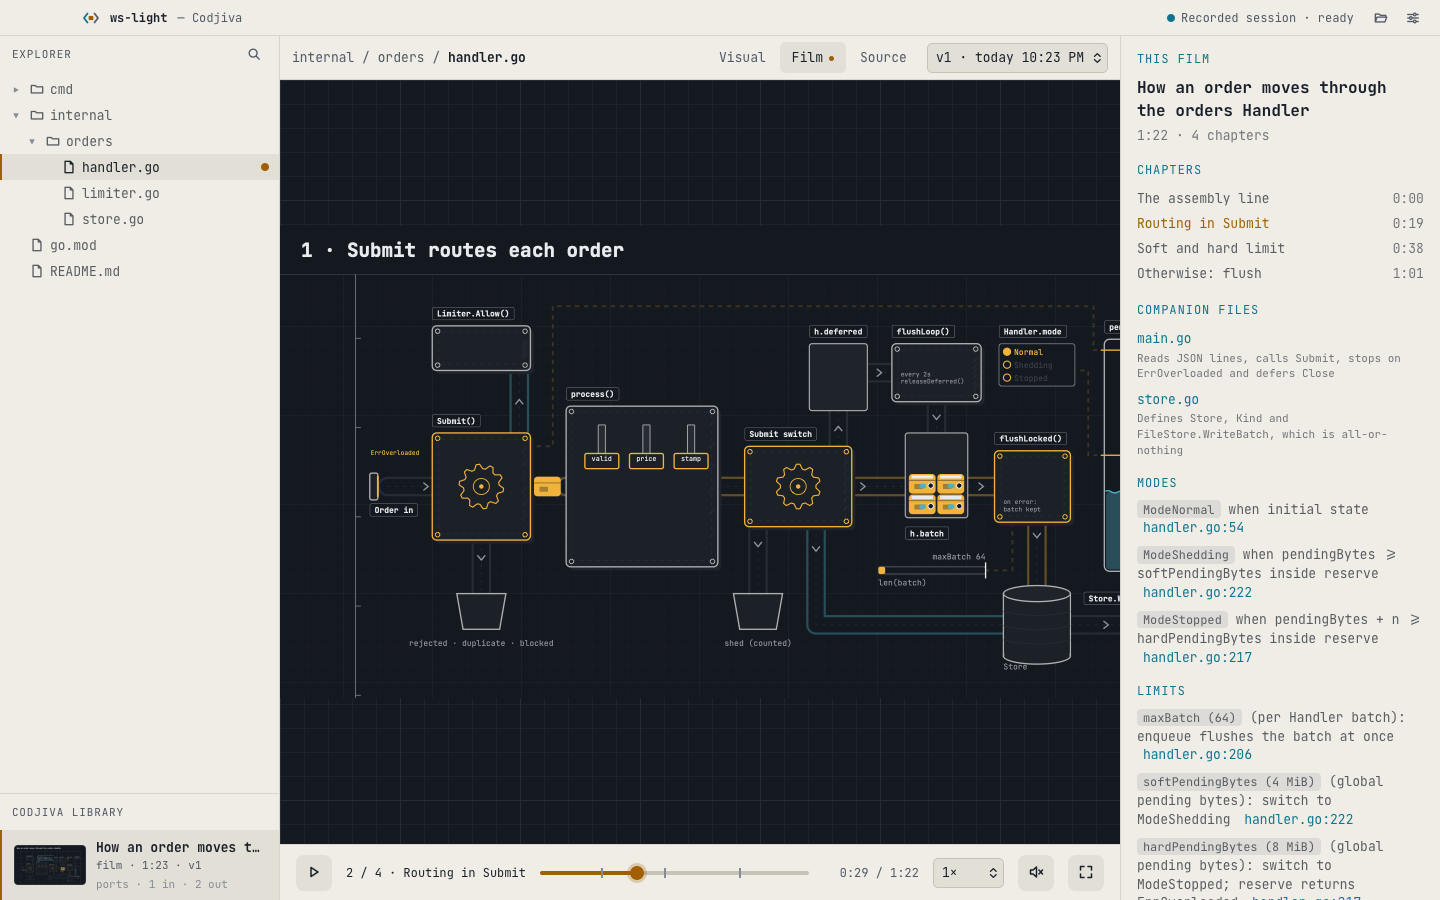
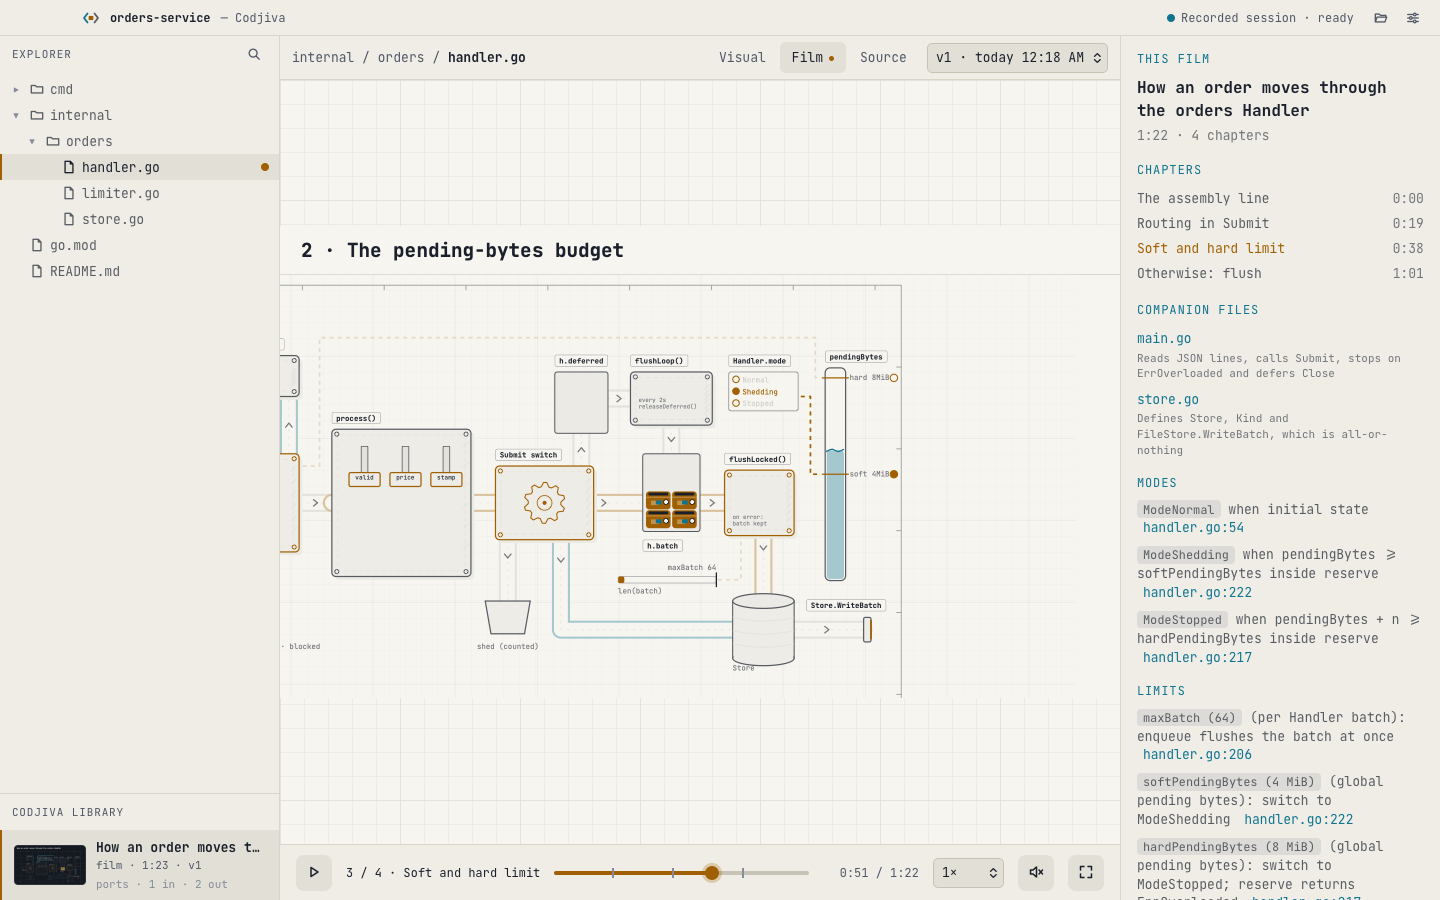
Films and visuals follow the light theme; real-app screenshots on the landing page
- tokens.css holds a light palette next to the dark one. An artifact page
  uses it when its root element has data-theme="light", which the app asks
  for with a theme message and a standalone page with ?theme=light.
- ArtifactFrame asks each page for the app's theme and reads back the
  palette in use. A page built by an older runtime stays dark, and the
  canvas behind it is kept dark for it.
- The runtime is version 1.1.0.
- The landing page's live example is drawn in the page's theme, and its
  app screenshots come from the desktop app on the Go orders example.

Claude-Session: https://claude.ai/code/session_01WEnf77nagKX1Jfs7v5qyJ3

diff --git a/runtime/src/90-player.js b/runtime/src/90-player.js
@@ -8,6 +8,10 @@
 //
 // With `?poster=1` as well, a film draws the single frame named by its `thumbT` and does not
 // play. The app uses that for the small pictures in its library.
+//
+// An artifact is drawn in the dark palette unless it is told to use the light one. It is told
+// by `?theme=light` in the URL, or by a `theme` message from the app. The page reports the
+// palette in use in its `ready` message and after every `theme` message.
 
 const ICONS = {
   play: '<svg class="i-play" viewBox="0 0 24 24"><path d="M7 4.5v15l13-7.5z"/></svg>',
@@ -30,7 +34,7 @@ const formatTime = (x) => {
   return Math.floor(s / 60) + ':' + String(Math.floor(s % 60)).padStart(2, '0');
 };
 
-CJ.version = '1.0.0';
+CJ.version = '1.1.0';
 
 CJ.boot = async (data) => {
   const params = new URLSearchParams(window.location.search);
@@ -46,6 +50,14 @@ CJ.boot = async (data) => {
   const controls = $('controls');
   const markEmbedded = () => { document.documentElement.classList.add('embed'); document.body.classList.add('embed'); };
   if (embedded) markEmbedded();
+  // The style sheet holds both palettes. The attribute data-theme="light" on the root element
+  // selects the light one, and without the attribute the dark one applies.
+  const setTheme = (mode) => {
+    if (mode === 'light') document.documentElement.dataset.theme = 'light';
+    else delete document.documentElement.dataset.theme;
+  };
+  const theme = () => (document.documentElement.dataset.theme === 'light' ? 'light' : 'dark');
+  setTheme(params.get('theme'));
 
   // Messages go to the page that embeds this artifact. A standalone artifact has no such page.
   const host = window.parent !== window ? window.parent : null;
@@ -184,6 +196,7 @@ CJ.boot = async (data) => {
       if (ev.source !== host || !ev.data || !ev.data.cj) return;
       const msg = ev.data;
       if (msg.cj === 'hello') { embedded = true; markEmbedded(); fit(); sendReady(); }
+      else if (msg.cj === 'theme') { setTheme(msg.mode); post({ cj: 'theme', mode: theme() }); }
       else if (msg.cj === 'legend') visual.setLegend(msg.on);
       else if (msg.cj === 'layers') visual.setLayers(msg.on || {});
       else if (msg.cj === 'fit') visual.fit();
@@ -193,7 +206,7 @@ CJ.boot = async (data) => {
       else if (msg.cj === 'selftest') Promise.resolve(runSelfTest(msg.opts)).then((report) => post({ cj: 'selftest', report }));
     });
     pickContext = () => ({ prefix: 'v' });
-    const sendReady = () => post({ cj: 'ready', kind: 'visual', title: data.visual.title, layers: visual.layers(), nodes: (data.visual.nodes || []).map((n) => n.id), legend: visual.hasLegend, runtime: CJ.version });
+    const sendReady = () => post({ cj: 'ready', kind: 'visual', title: data.visual.title, layers: visual.layers(), nodes: (data.visual.nodes || []).map((n) => n.id), legend: visual.hasLegend, runtime: CJ.version, theme: theme() });
     fit();
     window.__cj = { kind: 'visual', visual, selfTest: runSelfTest, registry };
     document.body.classList.add('ready');
@@ -358,12 +371,13 @@ CJ.boot = async (data) => {
     const local = Math.min(scene.duration, Math.max(0, t - scene.start));
     return { prefix: scene.meta.id, scene: scene.meta.id, t: Math.round(t * 100) / 100, sceneT: Math.round(scene.warp.tau(local) * 100) / 100 };
   };
-  const sendReady = () => post({ cj: 'ready', kind: 'film', title: data.film.title, duration: total, chapters: film.chapters(), runtime: CJ.version });
+  const sendReady = () => post({ cj: 'ready', kind: 'film', title: data.film.title, duration: total, chapters: film.chapters(), runtime: CJ.version, theme: theme() });
 
   window.addEventListener('message', (ev) => {
     if (ev.source !== host || !ev.data || !ev.data.cj) return;
     const msg = ev.data;
     if (msg.cj === 'hello') { embedded = true; markEmbedded(); fit(); sendReady(); sendTime(true); }
+    else if (msg.cj === 'theme') { setTheme(msg.mode); post({ cj: 'theme', mode: theme() }); }
     else if (msg.cj === 'play') play();
     else if (msg.cj === 'pause') pause();
     else if (msg.cj === 'seek') seek(Number(msg.t) || 0);

diff --git a/ui/src/styles/theme.css b/ui/src/styles/theme.css
@@ -1,46 +1,25 @@
 /**
- * The light theme of the app's own window, and the rule that keeps pictures and films dark.
+ * How the app's window uses the two palettes of tokens.css.
  *
- * tokens.css defines the dark palette, which is the default. The root element has the attribute
- * data-theme="light" or data-theme="dark"; lib/theme.ts sets it from the `theme` setting.
+ * tokens.css defines the dark palette, which is the default, and the light palette. The root
+ * element has the attribute data-theme="light" or data-theme="dark"; lib/theme.ts sets it from
+ * the `theme` setting.
  */
 :root { color-scheme:dark }
 
-/* Light theme: drafting paper with dark ink. Amber and cyan are darker than in the dark theme
-   so that text in those colours stays readable on a light background. Only the base colours
-   and the shell neutrals are set here; tokens.css derives every other tone from them. */
-:root[data-theme="light"] {
-  color-scheme:light;
-  --ground:#F7F5EF;
-  --main:#A05F00;
-  --second:#1A202B;
-  --accent:#0E7490;
-
-  --shell-window:#E3E0D8;
-  --shell-bar:#EFEDE6;
-  --shell-button:#E2DFD6;
-  --shell-hover:#D6D2C8;
-  --shell-border:#C6C2B6;
-  --shell-border-soft:#D8D5CB;
-  --shell-tick:#868C97;
-  --shell-text-2:#505866;
-}
-/* The page of a picture or a film declares no colour scheme, which browsers treat as light.
-   A frame whose own scheme differs from its page's scheme is given an opaque white background
-   by the browser. Declaring every frame light keeps the two equal, so the frame stays
-   transparent and the dark canvas behind it shows through. */
-iframe { color-scheme:light }
-
+/* The light palette itself is in tokens.css, next to the dark one. These rules soften what is
+   drawn over the window in the light theme. */
 :root[data-theme="light"] .scrim { background:rgba(26,32,43,.35) }
 :root[data-theme="light"] .dialog { box-shadow:0 20px 60px rgba(26,32,43,.25) }
 :root[data-theme="light"] .toast { box-shadow:0 12px 30px rgba(26,32,43,.2) }
 
-/* A picture or a film is drawn in the dark palette on a transparent page, so whatever is behind
-   its frame must be dark in both themes. These are the three places that hold such a frame:
-   the canvas while it shows an artifact, the thumbnails in the library, and the hidden frame
-   that checks new artifacts. Inside them the dark palette of tokens.css is declared again,
-   together with the derived tones, because a derived tone is computed where it is declared. */
-:root[data-theme="light"] :is(.canvas:has(iframe), .thumb, .validator) {
+/* A picture or a film is transparent around its drawing, so whatever is behind its frame has
+   to be in the same palette as the drawing. A frame whose page is drawn in the dark palette
+   has the class `dark-stage` (see ArtifactFrame.svelte). The thumbnails in the library and the
+   hidden frame that checks new artifacts are always drawn dark. Inside these three places the
+   dark palette of tokens.css is declared again, together with the derived tones, because a
+   derived tone is computed where it is declared. */
+:root[data-theme="light"] :is(.canvas:has(iframe.dark-stage), .thumb, .validator) {
   color-scheme:dark;
   color:var(--second);
   --ground:#14181F;
@@ -56,6 +35,7 @@ iframe { color-scheme:light }
   --amberdim:color-mix(in srgb, var(--main) 35%, var(--ground));
   --cyandim:color-mix(in srgb, var(--accent) 35%, var(--ground));
   --chip:color-mix(in srgb, var(--second) 12%, var(--ground));
+  --drop:rgba(0,0,0,.45);
   --shell-window:#0c0e12;
   --shell-bar:#101318;
   --shell-button:#1b2029;

diff --git a/ui/src/components/ArtifactFrame.svelte b/ui/src/components/ArtifactFrame.svelte
@@ -1,26 +1,65 @@
 <script lang="ts">
+  import { app } from '$lib/state/app.svelte';
+
   // The sandboxed frame every visual and film is shown in.
   //
   // The frame may run scripts and nothing else: it has its own isolated origin, so the page
   // inside cannot reach this app or anything the app can reach. The two sides talk only through
   // window messages, each an object with a `cj` field that names the message.
-  let { src, title, onmessage }: { src: string; title: string; onmessage: (message: any) => void } = $props();
+  //
+  // Theme. The page inside is transparent around its drawing, so what is behind this frame
+  // shows through. The frame asks the page to draw in the app's theme, `app.theme`, when the
+  // page loads and again whenever the theme changes. The page answers with the palette it uses.
+  //   - A page built by this version of the app answers `light` or `dark` as asked.
+  //   - A page built before the light palette existed does not know the request and stays dark.
+  // While the page is dark, the frame has the class `dark-stage`. styles/theme.css uses that
+  // class to keep the area behind the frame dark when the rest of the window is light.
+  //
+  // With `followTheme` set to false the page is never asked, and it stays dark.
+  let { src, title, onmessage, followTheme = true }: { src: string; title: string; onmessage: (message: any) => void; followTheme?: boolean } = $props();
 
   let frame: HTMLIFrameElement | undefined = $state();
+  // The palette the page said it uses. It is null until the page has answered.
+  let stageTheme = $state<'light' | 'dark' | null>(null);
 
   export function send(message: Record<string, unknown>) {
     frame?.contentWindow?.postMessage(message, '*');
   }
 
+  // The theme request is sent before `hello`, so the page's `ready` answer to `hello` already
+  // names the palette asked for.
+  function onload() {
+    if (followTheme) send({ cj: 'theme', mode: app.theme });
+    send({ cj: 'hello' });
+  }
+
+  // A different page has not answered yet.
+  $effect(() => {
+    void src;
+    stageTheme = null;
+  });
+
+  // Passes a change of the app's theme on to the page that is already loaded.
+  $effect(() => {
+    const mode = app.theme;
+    if (followTheme) send({ cj: 'theme', mode });
+  });
+
   $effect(() => {
     const handler = (event: MessageEvent) => {
       // Only messages from this frame's own page are accepted.
       if (!frame || event.source !== frame.contentWindow) return;
-      if (event.data && typeof event.data === 'object' && typeof event.data.cj === 'string') onmessage(event.data);
+      const message = event.data;
+      if (!message || typeof message !== 'object' || typeof message.cj !== 'string') return;
+      // `ready` carries the palette in `theme`, and the answer to a theme request carries it in
+      // `mode`. A page that names no palette is an older page, which is always dark.
+      if (message.cj === 'ready') stageTheme = message.theme === 'light' ? 'light' : 'dark';
+      else if (message.cj === 'theme') stageTheme = message.mode === 'light' ? 'light' : 'dark';
+      onmessage(message);
     };
     window.addEventListener('message', handler);
     return () => window.removeEventListener('message', handler);
   });
 </script>
 
-<iframe bind:this={frame} {src} {title} sandbox="allow-scripts" onload={() => send({ cj: 'hello' })}></iframe>
+<iframe bind:this={frame} {src} {title} class:dark-stage={stageTheme === 'dark'} sandbox="allow-scripts" {onload}></iframe>

diff --git a/runtime/css/runtime.css b/runtime/css/runtime.css
@@ -78,10 +78,10 @@ html.embed, html.embed body, html.embed #app { background:transparent }
 /* ---------- bubbles (the runtime sets opacity and the clamping transform) ---------- */
 .bub { position:absolute; width:max-content; max-width:420px; padding:12px 16px; font-size:20px; line-height:1.4;
   color:var(--second); background:var(--ground); border:2px solid var(--accent); border-radius:var(--radius-l);
-  box-shadow:0 0 0 7px color-mix(in srgb, var(--accent) 22%, transparent), 0 12px 30px rgba(0,0,0,.45);
+  box-shadow:0 0 0 7px color-mix(in srgb, var(--accent) 22%, transparent), 0 12px 30px var(--drop);
   opacity:0; white-space:normal }
 .bub .k { display:block; font-size:18px; letter-spacing:.06em; color:var(--accent); margin-bottom:6px }
-.bub.alarm { border-color:var(--main); box-shadow:0 0 0 7px color-mix(in srgb, var(--main) 26%, transparent), 0 12px 30px rgba(0,0,0,.45) }
+.bub.alarm { border-color:var(--main); box-shadow:0 0 0 7px color-mix(in srgb, var(--main) 26%, transparent), 0 12px 30px var(--drop) }
 .bub.alarm .k { color:var(--main) }
 .bub::after { content:''; position:absolute; width:18px; height:18px; background:var(--ground); border:2px solid var(--accent); transform:rotate(45deg) }
 .bub.alarm::after { border-color:var(--main) }
@@ -111,7 +111,7 @@ html.embed, html.embed body, html.embed #app { background:transparent }
 .cj-marker.open { box-shadow:0 0 0 5px color-mix(in srgb, var(--second) 45%, transparent) }
 .cj-layer-off { display:none !important }
 .cj-tip { position:absolute; max-width:440px; padding:8px 12px; font-size:16px; line-height:1.35; color:var(--ink); background:var(--ground);
-  border:1.5px solid var(--line); border-radius:var(--radius-m); box-shadow:0 12px 30px rgba(0,0,0,.45); opacity:0; pointer-events:none }
+  border:1.5px solid var(--line); border-radius:var(--radius-m); box-shadow:0 12px 30px var(--drop); opacity:0; pointer-events:none }
 .cj-tip b { display:block; color:var(--second) }
 
 /* Point-at mode: the app has asked the user to click the element their feedback is about. */

diff --git a/landing/app.js b/landing/app.js
@@ -17,6 +17,7 @@
 			var light = root.getAttribute('data-mode') !== 'light';
 			if (light) root.setAttribute('data-mode', 'light'); else root.removeAttribute('data-mode');
 			try { localStorage.setItem('codjiva-mode', light ? 'light' : 'dark'); } catch (e) {}
+			showDemo();
 		});
 	}
 
@@ -31,17 +32,28 @@
 	var frame = one('#demo-frame');
 	var note = one('#demo-note');
 	var keys = one('#demo-keys');
+	// The example on show. It starts as the film, which the page's own markup already loads.
+	var shown = 'film';
+	// Loads the example on show into the frame, in the page's theme. An example page is drawn in
+	// its light palette when its address ends in `?theme=light`. The frame is left alone when it
+	// already shows that address, so a film that is playing is not started again for nothing.
+	function showDemo() {
+		var demo = DEMOS[shown];
+		if (!demo || !frame) return;
+		var address = demo.src + (root.getAttribute('data-mode') === 'light' ? '?theme=light' : '');
+		if (frame.getAttribute('src') !== address) frame.setAttribute('src', address);
+		frame.title = demo.title;
+		if (note) note.textContent = demo.note;
+		if (keys) keys.hidden = !demo.keys;
+	}
 	all('.tab[data-demo]').forEach(function (tab) {
 		tab.addEventListener('click', function () {
-			var demo = DEMOS[tab.getAttribute('data-demo')];
-			if (!demo || !frame) return;
+			shown = tab.getAttribute('data-demo');
 			all('.tab[data-demo]').forEach(function (other) { other.setAttribute('aria-selected', other === tab ? 'true' : 'false'); });
-			frame.src = demo.src;
-			frame.title = demo.title;
-			if (note) note.textContent = demo.note;
-			if (keys) keys.hidden = !demo.keys;
+			showDemo();
 		});
 	});
+	showDemo();
 	// The example pages are built when the site is published. In a local copy that has not
 	// run scripts/landing.sh they are missing, and the frame would show the browser's error
 	// page. A request for the film page tells the two cases apart. On a page opened from a

diff --git a/landing/styles.css b/landing/styles.css
@@ -125,11 +125,11 @@ img { max-width:100%; display:block }
 .tab:hover { color:var(--second) }
 .tab[aria-selected="true"] { background:var(--button); color:var(--second); font-weight:700 }
 .demo-head .note { margin-left:auto; font-size:12px; color:var(--muted) }
-/* The frame is as tall as the film's stage plus its player bar: 1920 by 1136 pixels. A film and
-   a visual are always dark, so the frame's own background is dark in both themes. */
-.stage { position:relative; aspect-ratio:1920 / 1136; border:1.5px solid var(--line); border-radius:10px; overflow:hidden; background:#0c0e12; box-shadow:var(--shadow) }
+/* The frame is as tall as the film's stage plus its player bar: 1920 by 1136 pixels. The example
+   inside is drawn in the page's theme (see showDemo in app.js). */
+.stage { position:relative; aspect-ratio:1920 / 1136; border:1.5px solid var(--line); border-radius:10px; overflow:hidden; background:var(--window); box-shadow:var(--shadow) }
 .stage iframe { position:absolute; inset:0; width:100%; height:100%; border:0; color-scheme:light }
-.stage .missing { position:absolute; inset:0; display:grid; place-items:center; padding:24px; text-align:center; color:#aab3c0; font-size:13px }
+.stage .missing { position:absolute; inset:0; display:grid; place-items:center; padding:24px; text-align:center; color:var(--text-2); font-size:13px }
 .demo-foot { display:flex; flex-wrap:wrap; gap:8px 22px; margin-top:12px; font-size:12px; color:var(--muted) }
 .demo-foot kbd { font:inherit; padding:1px 6px; border:1px solid var(--border); border-radius:4px; background:var(--bar); color:var(--second) }
 

diff --git a/resources/theme/tokens.css b/resources/theme/tokens.css
@@ -23,6 +23,8 @@
   --cyandim:  color-mix(in srgb, var(--accent) 35%, var(--ground)); /* cool pipe walls, tank fill */
   --chip:     color-mix(in srgb, var(--second) 12%, var(--ground)); /* code chip background */
 
+  --drop:     rgba(0,0,0,.45);                                       /* shadow under a bubble or a tooltip */
+
   /* app-shell neutrals (outside the stage) */
   --shell-window: #0c0e12;
   --shell-bar:    #101318;
@@ -47,4 +49,26 @@
   /* motion (shell only; films are driven by the runtime clock) */
   --ease-out: cubic-bezier(.22,.61,.36,1);
   --t-fast: 120ms; --t-med: 180ms;
+}
+
+/* The light palette: drafting paper with dark ink. It applies when the root element has the
+   attribute data-theme="light". Amber and cyan are darker than in the dark palette so that
+   text and thin lines in those colours stay readable on a light ground. Only the base colours,
+   the shadow and the shell neutrals are set here. The derived tones above are computed from the
+   base colours wherever they are declared, so they follow by themselves. */
+:root[data-theme="light"], :root[data-theme="light"] #stage {
+  --ground: #F7F5EF;
+  --main:   #A05F00;
+  --second: #1A202B;
+  --accent: #0E7490;
+  --drop:   rgba(26,32,43,.22);
+
+  --shell-window: #E3E0D8;
+  --shell-bar:    #EFEDE6;
+  --shell-button: #E2DFD6;
+  --shell-hover:  #D6D2C8;
+  --shell-border: #C6C2B6;
+  --shell-border-soft: #D8D5CB;
+  --shell-tick:   #868C97;
+  --shell-text-2: #505866;
 }

diff --git a/landing/index.html b/landing/index.html
@@ -96,7 +96,7 @@
 		</div>
 		<figure class="shot themed">
 			<img class="dark" src="images/app-film.png" width="1440" height="900" alt="The Codjiva window. The file tree is on the left. In the middle a film shows the Submit function of a Go file as a line of machines, with an order moving through them. On the right are the film's chapters, companion files, modes and limits.">
-			<img class="light" src="images/app-film-light.png" width="1440" height="900" alt="The same Codjiva window in the light theme. The film itself stays on its dark blueprint.">
+			<img class="light" src="images/app-film-light.png" width="1440" height="900" alt="The same Codjiva window in the light theme, with the film drawn on light paper.">
 		</figure>
 	</div>
 </section>
@@ -196,7 +196,7 @@
 	</div>
 	<div class="two">
 		<figure class="shot">
-			<img src="images/app-visual.png" width="1600" height="960" loading="lazy" alt="A still visual in the Codjiva window, with the panel on the right listing its parts, modes and limits.">
+			<img src="images/app-visual.png" width="1440" height="900" loading="lazy" alt="A still visual in the Codjiva window. The Submit machine is selected, and the panel on the right shows its role, a link to its line of code, and the modes and limits of the file.">
 			<figcaption>A visual. Click a machine to see its role and jump to the line of code.</figcaption>
 		</figure>
 		<figure class="shot">

diff --git a/ui/src/lib/theme.ts b/ui/src/lib/theme.ts
@@ -15,9 +15,10 @@ const STORAGE_KEY = 'codjiva.theme';
 
 const systemIsLight = () => window.matchMedia('(prefers-color-scheme: light)').matches;
 
-// Sets the page and the window to the theme the setting asks for.
-export function applyTheme(setting: ThemeSetting) {
-  document.documentElement.dataset.theme = setting === 'system' ? (systemIsLight() ? 'light' : 'dark') : setting;
+// Sets the page and the window to the theme the setting asks for. Returns the theme now in use.
+export function applyTheme(setting: ThemeSetting): 'light' | 'dark' {
+  const theme = setting === 'system' ? (systemIsLight() ? 'light' : 'dark') : setting;
+  document.documentElement.dataset.theme = theme;
   try {
     localStorage.setItem(STORAGE_KEY, setting);
   } catch {
@@ -26,6 +27,7 @@ export function applyTheme(setting: ThemeSetting) {
   // The window's own theme decides the look of what the operating system draws, such as the
   // list a drop-down opens. `null` hands the choice back to the operating system.
   api.setWindowTheme(setting === 'system' ? null : setting).catch(() => {});
+  return theme;
 }
 
 // Applies the theme that was in use when the app last ran. Called before the interface is

diff --git a/ui/src/components/Settings.svelte b/ui/src/components/Settings.svelte
@@ -136,7 +136,7 @@
         {:else if section === 'appearance'}
           <div class="field"><span class="label">Theme</span>
             <div class="seg">{#each themes as [value, label]}<button class="btn" class:on={s.theme === value} aria-pressed={s.theme === value} onclick={() => set('theme', value)}>{label}</button>{/each}</div>
-            <div class="why">The colours of the window, its panels and the source view. Visuals and films are always drawn on the dark blueprint, in both themes.</div></div>
+            <div class="why">The colours of the window, and of the visuals and films shown in it. A visual or a film made by an earlier version of the app stays dark until it is made again. An exported film is dark.</div></div>
         {/if}
       {/if}
     </div>

diff --git a/ui/src/lib/state/app.svelte.ts b/ui/src/lib/state/app.svelte.ts
@@ -42,6 +42,8 @@ class AppState {
   workspace = $state<WorkspaceInfo | null>(null);
   recents = $state<RecentWorkspace[]>([]);
   settings = $state<Settings | null>(null);
+  // The theme the window is drawn in. It follows the `theme` setting; App.svelte sets it.
+  theme = $state<'light' | 'dark'>(document.documentElement.dataset.theme === 'light' ? 'light' : 'dark');
 
   // The entries of every folder loaded so far, by folder path. "" is the workspace root.
   children = $state<Record<string, TreeEntry[]>>({});

diff --git a/ui/src/components/Validator.svelte b/ui/src/components/Validator.svelte
@@ -61,7 +61,7 @@
 {#if current}
   {#key current.token}
     <div class="validator" aria-hidden="true">
-      <ArtifactFrame bind:this={frame} src={api.artifactUrl(`artifact/${current.artifactId}/${current.version}`) + '?embed=1'} title="Self-test" {onmessage} />
+      <ArtifactFrame bind:this={frame} src={api.artifactUrl(`artifact/${current.artifactId}/${current.version}`) + '?embed=1'} title="Self-test" {onmessage} followTheme={false} />
     </div>
   {/key}
 {/if}
